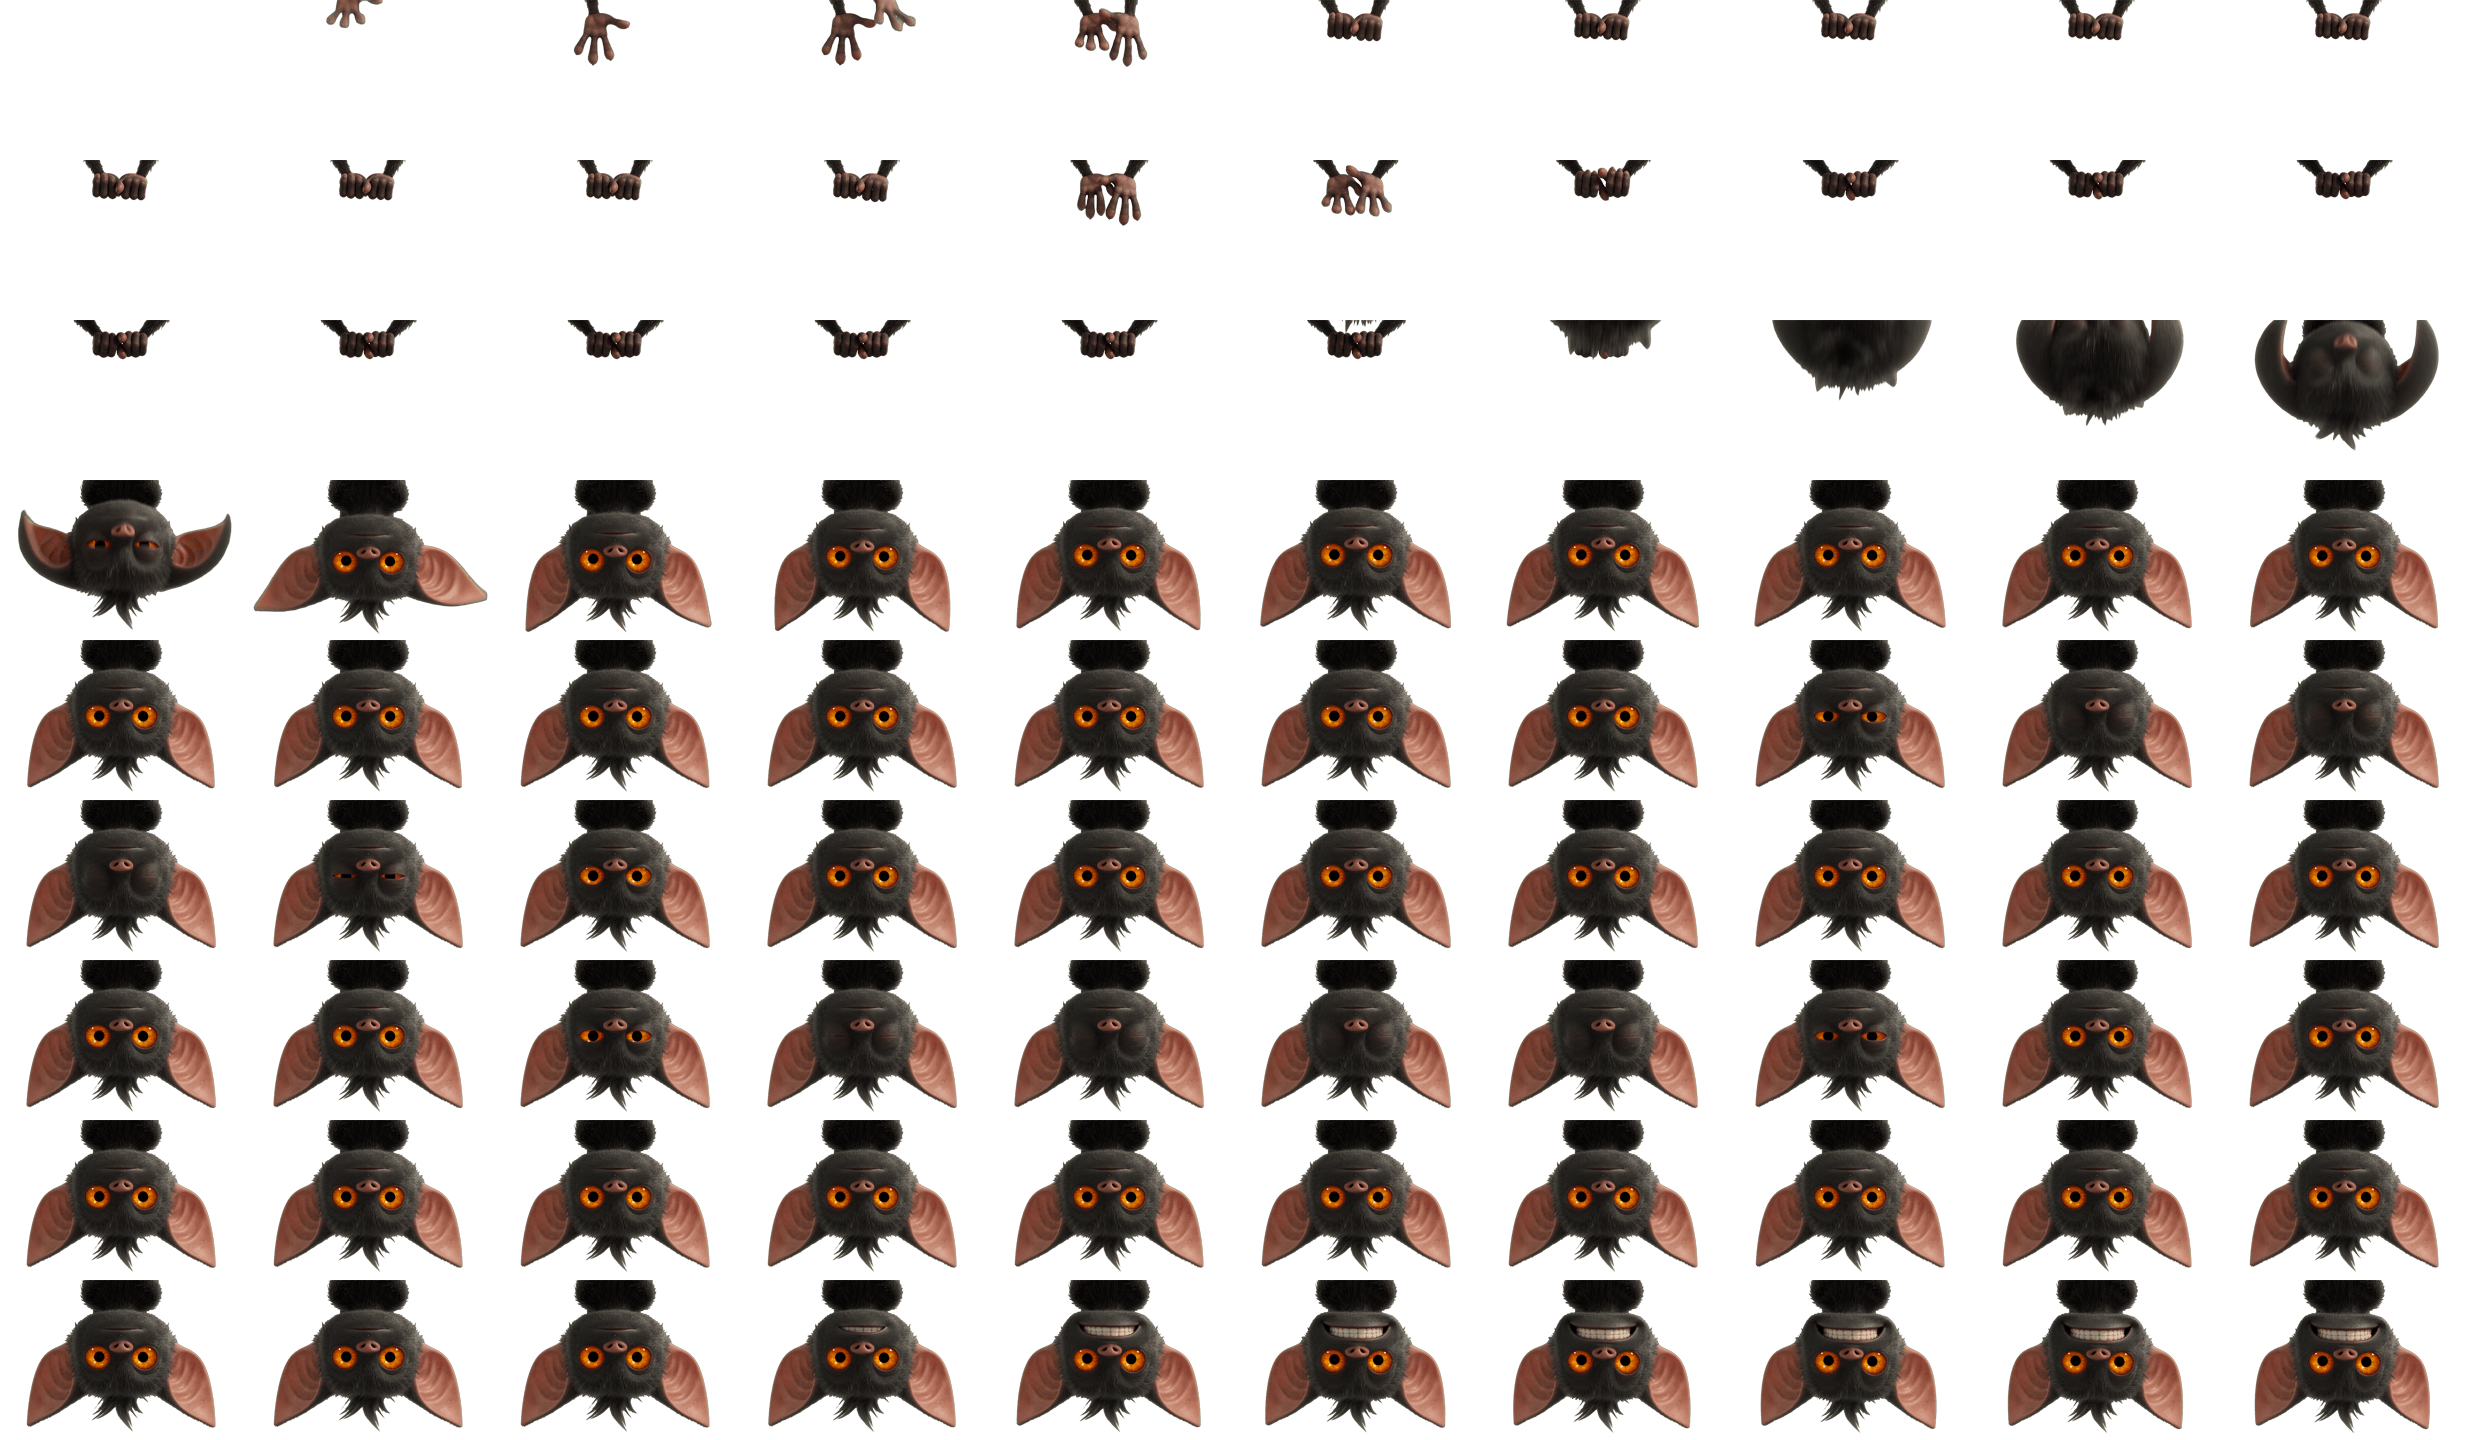
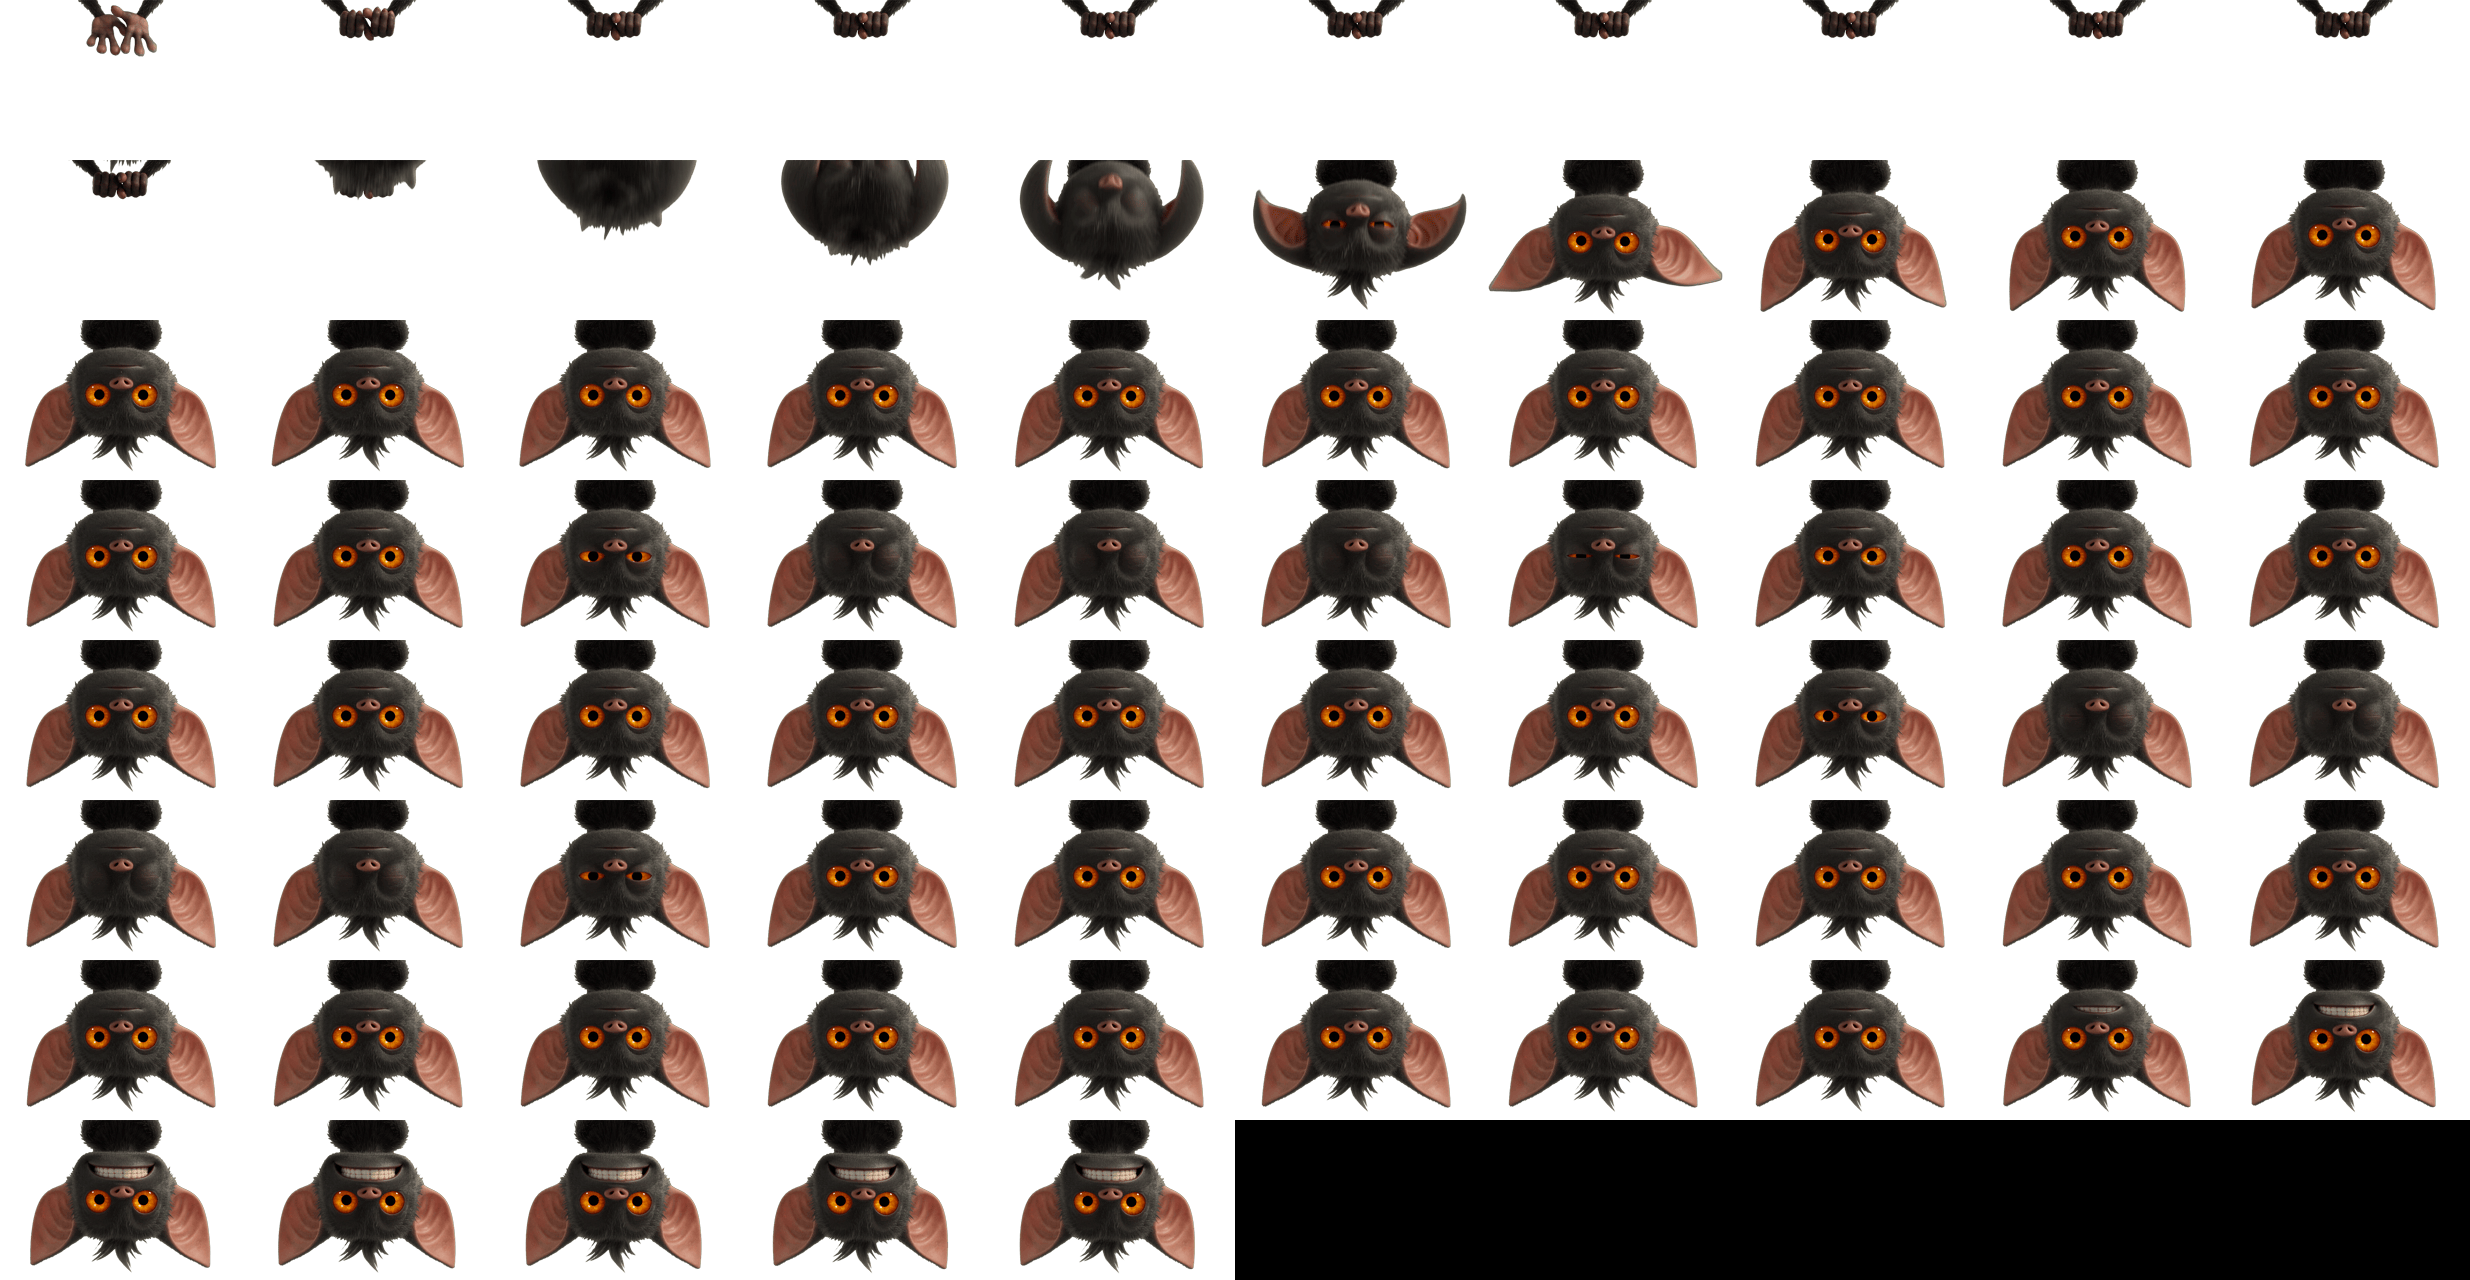
Forearms behind the bar, no double entry, shared frame clock
Three fixes from frame-level measurement rather than guesswork.

Anatomy, measured off the sheet: rows 0-30 forearm, 32 the wrist pinch, 34-60
fingers, 62+ head. The previous front slice was rows 0-26 - pure forearm, which
is exactly what was showing over the bar. spriteTopY is now -31, putting row 62
(head top) at the bar's lower edge, so the forearms fall off the top and are
never drawn by either slice.

The entry played twice: at source frame 22 the hands re-splay and re-grip. Sheet
now starts at frame 25, after the second grip. 75 frames.

And the hands slice was frozen on frame 0 the whole time: 'frame: bodySprite.frame'
does not track across PanelWindow boundaries - each window is its own top-level
scene graph, so the binding evaluates once and never updates, silently. The frame
counter now lives on the shared parent Item and both slices read from it.

diff --git a/BarWidget.qml b/BarWidget.qml
@@ -41,14 +41,22 @@ Item {
   readonly property int  barPixels: (settings && settings.barPixels) || 43
   // How far the creature reaches up over the bar, so its fingers grip the bar
   // itself rather than dangling below it.
-  readonly property int  gripOverlap: (settings && settings.gripOverlap) !== undefined ? settings.gripOverlap : 26
+  // How far the fingers reach up onto the bar's face. Deliberately thin: the
+  // forearms live in the frame's top rows and must stay hidden behind the bar -
+  // only the grip itself belongs in front of it.
+  readonly property int  gripOverlap: (settings && settings.gripOverlap) !== undefined ? settings.gripOverlap : 20
+  // Screen y of sprite row 0. Measured from the sheet: rows 0-30 are forearm,
+  // 32 is the wrist pinch, 34-60 are fingers, 62+ is the head. -31 puts row 62
+  // (head top) exactly at the bar's lower edge, so the fingers land ON the bar
+  // and the forearms fall off the top and are never drawn at all.
+  readonly property int  spriteTopY: (settings && settings.spriteTopY) !== undefined ? settings.spriteTopY : -31
 
   // The bar is instantiated once per monitor, so without this every instance
   // spawns its own hanging window and they stack invisibly.
   readonly property bool ownsHang:
     Quickshell.screens.length > 0 && Screen.name === Quickshell.screens[0].name
 
-  readonly property int spriteFrames: 90
+  readonly property int spriteFrames: 75
 
   // A sprite sheet played by translating one clipped Image.
   //
@@ -168,18 +176,45 @@ Item {
       id: hangRoot
       property alias sprite: bodySprite
 
-      function arrive() { bodySprite.play(false) }
+      function arrive() { hangRoot.frameIdx = 0; hangRoot.playing = true; clock.restart() }
       function leave()  { }        // the sheet ends with it already gone
-      function reset()  { bodySprite.halt(); bodySprite.frame = 0 }
+      function reset()  { clock.stop(); hangRoot.playing = false; hangRoot.frameIdx = 0 }
+
+      // The parent Item owns the frame counter. Binding one window's sprite to
+      // an id inside ANOTHER PanelWindow does not track - each window is its own
+      // top-level scene graph, so the binding evaluates once and then freezes,
+      // silently, with no warning. Both slices read from here instead.
+      property int  frameIdx: 0
+      property bool playing: false
+      readonly property int  fadeFrames: 6
+      readonly property real fadeOpacity:
+        (playing && frameIdx > root.spriteFrames - fadeFrames)
+          ? Math.max(0, (root.spriteFrames - frameIdx) / fadeFrames) : 1
+
+      Timer {
+        id: clock
+        interval: 83
+        repeat: true
+        running: false
+        onTriggered: {
+          if (hangRoot.frameIdx + 1 >= root.spriteFrames) { clock.stop(); hangRoot.playing = false; return }
+          hangRoot.frameIdx += 1
+        }
+      }
 
       readonly property real k: root.hangHeight / 160
-      readonly property int  handRows: Math.max(1, Math.round(root.gripOverlap / k))
       readonly property int  spriteW: Math.round(247 * k)
+      // Both slices are windows onto the SAME positioned sprite, expressed in
+      // screen space and converted to source rows. That keeps them continuous:
+      // the body slice starts exactly where the hand slice stops.
+      readonly property int  frontTopRow: Math.max(0, Math.round((root.barPixels - root.gripOverlap - root.spriteTopY) / k))
+      readonly property int  frontRows:   Math.max(1, Math.round(root.gripOverlap / k))
+      readonly property int  bodyTopRow:  Math.max(0, Math.round((root.barPixels - root.spriteTopY) / k))
 
       // body - beneath the bar
       PanelWindow {
         id: bodyWin
-        visible: !root.away && (root.watching || bodySprite.playing)
+        visible: !root.away && (root.watching || hangRoot.playing)
         anchors { top: true; left: true; right: true }
         implicitHeight: root.barPixels + root.hangHeight
         color: "transparent"
@@ -194,8 +229,12 @@ Item {
           sheet: Qt.resolvedUrl("assets/descend-big.png")
           cols: 10; frameW: 247; frameH: 160; frames: root.spriteFrames; fps: 12
           k: hangRoot.k
-          srcTop: hangRoot.handRows
-          srcRows: 160 - hangRoot.handRows
+          frame: hangRoot.frameIdx
+          opacity: hangRoot.fadeOpacity
+          srcTop: hangRoot.bodyTopRow
+          srcRows: 160 - hangRoot.bodyTopRow
+          width: hangRoot.spriteW
+          height: Math.round((160 - hangRoot.bodyTopRow) * hangRoot.k)
           x: Math.round((bodyWin.width - hangRoot.spriteW) * root.hangX)
           y: root.barPixels
           MouseArea { anchors.fill: parent; cursorShape: Qt.PointingHandCursor; onClicked: root.trigger() }
@@ -221,10 +260,12 @@ Item {
           sheet: Qt.resolvedUrl("assets/descend-big.png")
           cols: 10; frameW: 247; frameH: 160; frames: root.spriteFrames; fps: 12
           k: hangRoot.k
-          srcTop: 0
-          srcRows: hangRoot.handRows
-          frame: bodySprite.frame          // slaved - its own ticker never runs
-          opacity: bodySprite.opacity
+          srcTop: hangRoot.frontTopRow
+          srcRows: hangRoot.frontRows
+          width: hangRoot.spriteW
+          height: Math.round(hangRoot.frontRows * hangRoot.k)
+          frame: hangRoot.frameIdx
+          opacity: hangRoot.fadeOpacity
           x: Math.round((handWin.width - hangRoot.spriteW) * root.hangX)
           y: root.barPixels - root.gripOverlap
         }
